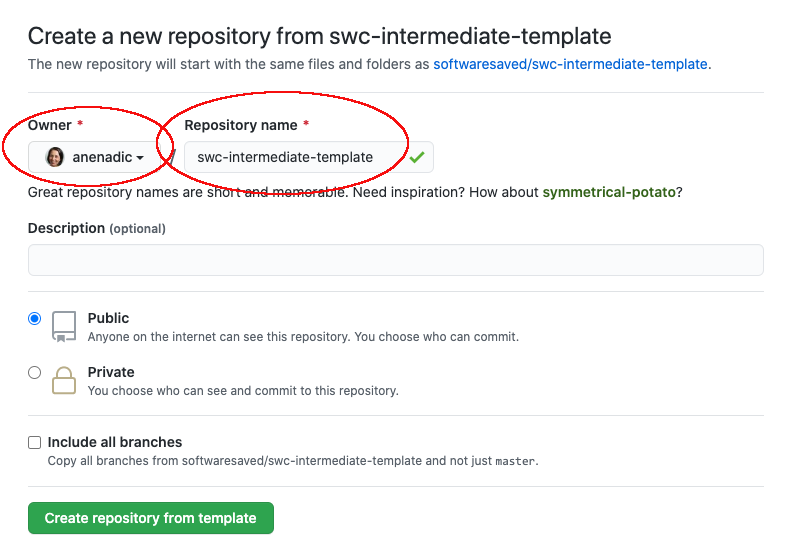
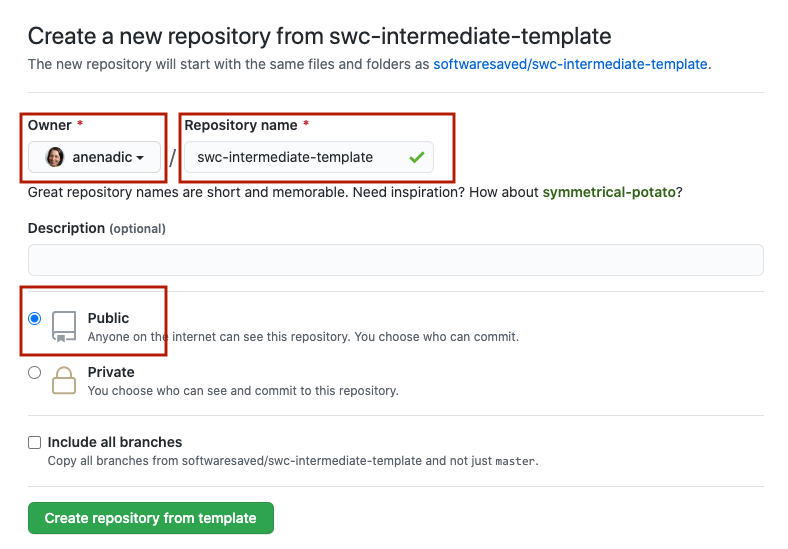
Fix for setting repo public. Fixes #22.

Changed region(s): [[0.0, 0.1548, 0.5787, 0.3716], [0.0, 0.4954, 0.2132, 0.6503]]

diff --git a/_episodes/01-software-development-intro.md b/_episodes/01-software-development-intro.md
@@ -127,7 +127,8 @@ To create your own copy of the software project repository from GitHub:
 the repository under your GitHub account. Note that each participant is creating their own copy to work on. Also, 
 we are not forking the directory but creating a copy (remember - you can fork only once but can have multiple copies in GitHub). 
 3. Make sure to select your personal account and set the name to the project `swc-intermediate-template` (you can call it 
-anything you like, but it may be easier if everyone uses the same name).
+anything you like, but it may be easier if everyone uses the same name). Also set the new repository's visibility to 
+'Public' - so it can be seen other attendees and by third-party Continuous Integration (CI) services (later on in the lesson).
 ![github-copy-template](../fig/github-copy-template.png)
 4. At this point GitHub may ask you to authenticate. If this happens and 
 you do not have 2-Factor-Authentication (2FA) enabled in your 
